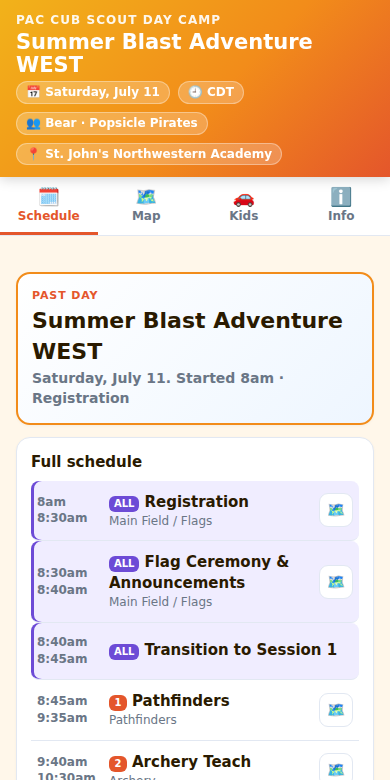
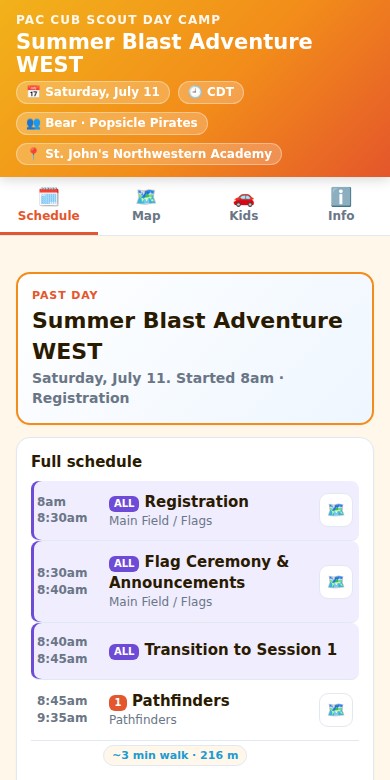
Ship drive-time and timing-check on the Schedule tab (roadmap item 3)
Between consecutive stops the Schedule tab now shows a rough travel chip
("~24 min drive", "~3 min walk"), computed offline from the stops'
coordinates: straight-line distance times a road-factor, divided by an
assumed speed. No routing API, no network, so it works in a park with no
signal. When a leg's travel time does not fit the gap between two stops it
turns red and a per-day "Timing check" card names the conflict, which is
the "too far apart to share a day" signal.

This reuses the haversine() and fmtDist() helpers already in the file
rather than adding distance math. New legEstimate()/travelCfg() sit beside
them. renderSchedule() gained a look-ahead that inserts a connector row
between stops and accumulates tight legs into the day card.

A grace margin (default 5 min, tunable) keeps a 2 to 3 minute walk into a
0 minute gap from being flagged as a conflict, which real-app verification
showed was noisy on back-to-back camp stations. The chip still shows; only
a meaningful shortfall escalates to a warning.

Tuning is an optional per-event or per-day `travel` block (roadFactor, mph,
walkMph, walkUnderMi, graceMin) with sensible defaults, so old files render
the chips with no changes and files whose places lack coordinates render
nothing.

- index.html: travelCfg(), legEstimate(), the renderSchedule() connector
  and Timing check card, and matching CSS.
- SPEC.md, README.md, NEW-EVENT.md: document the travel block and the
  feature.
[…]

Changed region(s): [[0.2769, 0.9538, 0.6462, 1.0], [0.0923, 0.9538, 0.2462, 1.0], [0.8308, 0.9538, 0.8923, 1.0]]

diff --git a/index.html b/index.html
@@ -180,6 +180,13 @@
   ol.sched li.is-now .what::after { content: " • NOW"; color: var(--accent); font-size: 11px; font-weight: 800; }
   ol.sched li.is-past { opacity: var(--pastdim); }
   ol.sched li.is-past .what { text-decoration: line-through; text-decoration-color: var(--line); }
+  ol.sched li.leg { display: block; padding: 2px 6px 8px 72px; border-bottom: 0; }
+  .legchip { display: inline-block; font-size: 11px; font-weight: 700; color: var(--muted);
+    background: var(--bg); border: 1px solid var(--line); border-radius: 999px; padding: 2px 8px; }
+  .legchip.walk { color: var(--water); }
+  .legchip.bad { color: #fff; background: var(--accent); border-color: var(--accent); }
+  .legwarn { font-size: 11px; font-weight: 800; color: var(--accent); margin-left: 6px; }
+  .daywarn h2 { color: var(--accent); }
   .sesspill { display:inline-block; min-width: 18px; text-align:center; background: var(--accent); color:#fff; font-size:10px; font-weight:800; border-radius:6px; padding:1px 5px; margin-right:5px; }
 
   /* Map */
@@ -721,7 +728,8 @@ function renderSchedule(){
   var ol=document.getElementById("schedList");
   ol.innerHTML="";
   if(!day.schedule.length){ ol.innerHTML='<li class="loading">No plans set for this day.</li>'; }
-  day.schedule.forEach(function(item){
+  var tz=dayTz(day), cfg=travelCfg(day), warnings=[];
+  day.schedule.forEach(function(item,i){
     var li=document.createElement("li");
     var st=today ? statusOf(item, day, now) : "";
     var cls=[];
@@ -740,15 +748,38 @@ function renderSchedule(){
       '<span class="what">'+sess+esc(item.title)+(sub?'<span class="sub">'+esc(sub)+'</span>':'')+'</span>'+
       (p?'<button class="go" title="Show on map" data-place="'+p.id+'">🗺️</button>':'<span></span>');
     ol.appendChild(li);
+
+    // Connector to the next stop: rough drive/walk time, and a fit check against the gap.
+    var nxt=day.schedule[i+1];
+    if(nxt){
+      var leg=legEstimate(p, nxt.place && placeById[nxt.place], day);
+      if(leg && leg.mode!=="same"){
+        var gapMin=Math.round((zonedEpoch(day.date,nxt.start,tz)-zonedEpoch(day.date,item.end,tz))/60000);
+        var tight=leg.min-gapMin>cfg.graceMin;   // only flag a meaningful shortfall, not a 2 min walk into a 0 gap
+        var label=(leg.mode==="walk"?"~"+leg.min+" min walk":"~"+leg.min+" min drive")+" · "+fmtDist(leg.road);
+        var warn=tight ? '<span class="legwarn">does not fit '+(gapMin<0?"(overlaps)":"(only "+gapMin+" min)")+'</span>' : "";
+        var lg=document.createElement("li");
+        lg.className="leg"+(tight?" tight":"");
+        lg.innerHTML='<span class="legchip '+leg.mode+(tight?" bad":"")+'">'+label+'</span>'+warn;
+        ol.appendChild(lg);
+        if(tight) warnings.push(esc(item.title)+" to "+esc(nxt.title)+" needs ~"+leg.min+" min but "+
+          (gapMin<0?"the times overlap.":"only "+gapMin+" min is set aside."));
+      }
+    }
   });
   ol.querySelectorAll(".go").forEach(function(b){
     b.addEventListener("click", function(){ focusPlace(b.getAttribute("data-place")); });
   });
-  var dn=document.getElementById("dayNotes");
+  var dn=document.getElementById("dayNotes"), dnHtml="";
+  if(warnings.length){
+    dnHtml+='<div class="card daywarn"><h2>Timing check</h2><ul class="plain">'+
+      warnings.map(function(w){ return '<li>'+w+'</li>'; }).join("")+'</ul></div>';
+  }
   if(day.notes && day.notes.length){
-    dn.innerHTML='<div class="card"><h2>Notes for this day</h2><ul class="plain">'+
+    dnHtml+='<div class="card"><h2>Notes for this day</h2><ul class="plain">'+
       day.notes.map(function(n){ return '<li>'+esc(n)+'</li>'; }).join("")+'</ul></div>';
-  } else { dn.innerHTML=""; }
+  }
+  dn.innerHTML=dnHtml;
 }
 
 /* ---------- info ---------- */
@@ -1121,6 +1152,29 @@ function haversine(la1,ln1,la2,ln2){
   return R*2*Math.atan2(Math.sqrt(a),Math.sqrt(1-a));
 }
 function fmtDist(m){ return m<950 ? Math.round(m)+" m" : (m/1609.34).toFixed(1)+" mi"; }
+
+/* Travel tuning, day-level first then event-level, with good-enough offline defaults. */
+function travelCfg(day){
+  var t=(day && day.travel) || (EV && EV.travel) || {};
+  return {
+    roadFactor: +t.roadFactor>0 ? +t.roadFactor : 1.3,   // roads run ~1.3x the straight line
+    mph:        +t.mph>0        ? +t.mph        : 45,     // blended town + highway
+    walkMph:    +t.walkMph>0    ? +t.walkMph    : 3,
+    walkUnder:  (t.walkUnderMi!=null ? +t.walkUnderMi : 0.3) * 1609.34,
+    graceMin:   +t.graceMin>=0  ? +t.graceMin   : 5       // slack before a short hop is flagged tight
+  };
+}
+
+/* Rough offline travel estimate between two places. No routing API, coords only.
+   Returns {mode:"same"|"walk"|"drive", min, road} or null when coords are missing. */
+function legEstimate(a, b, day){
+  if(!a || !b || a.lat==null || a.lng==null || b.lat==null || b.lng==null) return null;
+  var crow=haversine(a.lat, a.lng, b.lat, b.lng);
+  if(crow<25) return { mode:"same", min:0, road:0 };     // effectively the same spot
+  var c=travelCfg(day), road=crow*c.roadFactor;
+  var walk=road<c.walkUnder, mps=(walk?c.walkMph:c.mph)*1609.34/3600;
+  return { mode:walk?"walk":"drive", min:Math.round(road/mps/60), road:road };
+}
 
 /* ---------- tabs ---------- */
 function showTab(name){

diff --git a/sw.js b/sw.js
@@ -3,7 +3,7 @@
    Caches the app shell plus event.json so the whole day still loads with no signal.
    Map tiles saved via "Save offline" live in a separate cache (TILES) that survives updates. */
 
-var CACHE = 'daykit-v9';
+var CACHE = 'daykit-v10';
 var TILES = 'daykit-tiles';   // written by the app's "Save offline" button; kept across activations
 
 // Same-origin shell (relative to scope). These must all fetch for install to succeed.

diff --git a/SPEC.md b/SPEC.md
@@ -179,6 +179,33 @@ single-day files, every place shows.
 `flight`, `train`, `hike`, `beach`, `shop`, `star`, `pin` (fallback). Add
 more by editing the `ICONS` map in `index.html`.
 
+## `travel` (drive-time estimates)
+
+Optional. Tunes the rough travel estimate the Schedule tab shows between
+consecutive stops. The app takes the straight-line distance between two stops'
+places (using their `lat`/`lng`), multiplies by a road-factor to approximate the
+real route, and divides by an assumed speed. It is a good-enough offline guess
+with no routing API and no network, meant to catch "these two are too far apart to
+share a day", not to give a turn-by-turn ETA. Between each pair of stops with
+coordinates it renders a "~24 min drive" (or walk) chip, and when the travel time
+does not fit the gap between the stops it flags the leg and adds a "Timing check"
+card for that day.
+
+```jsonc
+"travel": {
+  "roadFactor": 1.3,     // route distance vs straight line. Default 1.3.
+  "mph": 45,             // assumed driving speed. Default 45 (blends town + highway).
+  "walkMph": 3,          // assumed walking speed. Default 3.
+  "walkUnderMi": 0.3,    // legs under this road distance render as a walk. Default 0.3.
+  "graceMin": 5          // slack before a short leg is flagged as not fitting. Default 5.
+}
+```
+
+Can also be set per day inside a `days[]` entry, which overrides the trip-level
+value for that day. Every key is optional; omit `travel` entirely and the
+defaults apply. Stops without coordinates, or consecutive stops at the same
+place, render no chip.
+
 ## Live behavior
 
 - On a day that is today, the Schedule tab shows a live "right now / up next"

diff --git a/IDEAS.md b/IDEAS.md
@@ -35,6 +35,19 @@ Schema in `SPEC.md`, samples in `event.json` and `samples/vacation.json`.
 This is the most self-contained of the six and the one you feel first: the trip
 falls apart when the thing you wanted sells out while you were deciding.
 
+### Drive-time and timing check (pain points 2 and 3)
+
+Roadmap item 3, now shipped. Between consecutive stops the Schedule tab shows a
+rough "~24 min drive" or walk chip, computed offline from the stops' coordinates
+(straight-line distance times a road-factor, divided by an assumed speed), with
+no routing API and no signal. When a leg does not fit the gap between two stops it
+turns red and a "Timing check" card names the days where two things are too far
+apart to share. Tuned by an optional `travel` block (`roadFactor`, `mph`,
+`walkMph`, `walkUnderMi`, `graceMin`) with sensible defaults. `haversine()`
+already existed in the app, so this reused it rather than adding distance math.
+Full plan and build notes in
+[`docs/plans/03-drive-time.md`](docs/plans/03-drive-time.md).
+
 ## Next up (roadmap, roughly in build order)
 
 Each of these now has a build-ready implementation plan in
@@ -66,7 +79,8 @@ split up. Names come from an expanded `team.members[]`.
 
 ### 3. Drive time and "can these share a day" (pain points 2 and 3)
 
-Plan: [`docs/plans/03-drive-time.md`](docs/plans/03-drive-time.md).
+Shipped. See "Drive-time and timing check" under Shipped above, and
+[`docs/plans/03-drive-time.md`](docs/plans/03-drive-time.md) for the build notes.
 
 Every `place` already has `lat`/`lng`. A rough straight-line distance between
 consecutive stops (times a road-factor fudge) gives a good-enough drive estimate

diff --git a/README.md b/README.md
@@ -79,6 +79,12 @@ Three tabs, no backend, no build step.
   when it's overdue, plus confirmation numbers, a booking link, and directions.
   A header count keeps "3 still to book" in front of you, and checking one off
   stays checked offline. Fully optional and data-driven.
+- **Drive-time and timing check** - Between consecutive stops the Schedule tab
+  shows a rough "~24 min drive" (or walk) chip, computed offline from the stops'
+  coordinates with a road-factor fudge, no routing API and no signal needed. When
+  a leg does not fit the gap between two stops it turns red and a "Timing check"
+  card calls out the days where two things are too far apart to share. Tune it
+  with an optional `travel` block, or leave it to sensible defaults.
 
 Times respect the event's `timezone`, so a trip in another zone still shows
 the right clock. The whole thing installs to the home screen and works offline.

diff --git a/NEW-EVENT.md b/NEW-EVENT.md
@@ -63,6 +63,9 @@ corner.
 >   (hotels, tours, dinners, ferries, permits), each with a `status`
 >   (`confirmed`, `todo`, or `waitlist`) and a `by` book-by deadline where the
 >   thing sells out or has a cutoff.
+> - Geocode every place accurately. The drive-time chips between stops are only
+>   as good as the `lat`/`lng`, so precise coordinates make the "too far apart to
+>   share a day" timing check trustworthy.
 >
 > Output only the `event.json`.
 

diff --git a/docs/plans/README.md b/docs/plans/README.md
@@ -15,7 +15,7 @@ offline with the bundled Chromium at `/opt/pw-browsers/chromium`.
 |---|------|----------------------|------------|
 | 1 | [Opening hours and windows](01-opening-hours.md) | Time-constrained things (hours, tide, daylight) | none |
 | 2 | [Who wants what](02-who-wants-what.md) | Traveling with others who want different things | none |
-| 3 | [Drive time and day-fit](03-drive-time.md) | Things too far apart or too close in time | none |
+| 3 | [Drive time and day-fit](03-drive-time.md) (shipped) | Things too far apart or too close in time | none |
 | 4 | [Flex vs fixed replan](04-flex-replan.md) | Plans that flex when you run behind | reservations (shipped) |
 | 5 | [Candidate pool and day-builder](05-day-builder.md) | Building the whole plan interactively | 1, 2, 3, 4 |
 